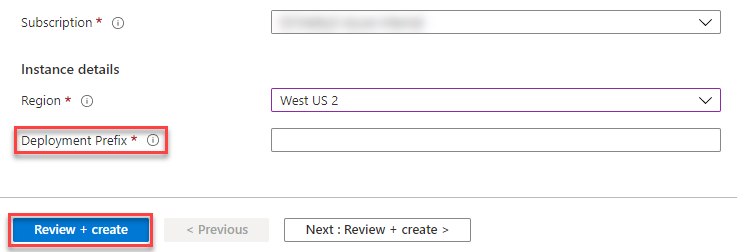
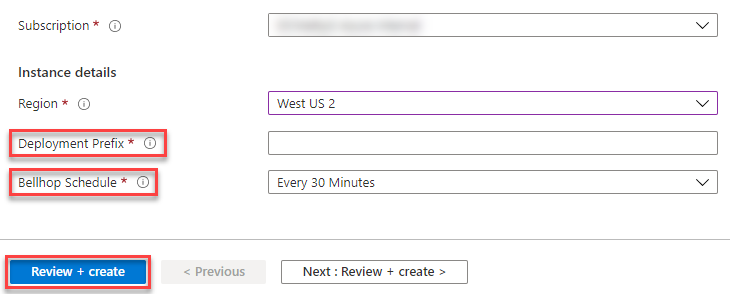
Added documentation describing the adjustable engine interval feature

diff --git a/docs/engine/README.md b/docs/engine/README.md
@@ -24,3 +24,14 @@ If the Engine finds resources that have the tag set to `True`, it then evaluates
     }
 }
 ```
+
+## Adjusting the Bellhop Engine Interval
+
+The interval at which the Bellhop engine runs is set by the Application Setting 'ENGINE_TIMER_EXPRESSION'
+
+![Bellhop Interval Setting](../images/timer_interval_setting.png)
+
+- The Application Settings for the Function can be found here
+    - &lt;deployment prefix&gt;-rg 🠆 &lt;deployment prefix&gt;-function-engine 🠆 Configuration 🠆 'ENGINE_TIMER_EXPRESSION'
+- This value should be a valid NCRONTAB expression.
+- More details on NCRONTAB expressions can be found [here](https://docs.microsoft.com/en-us/azure/azure-functions/functions-bindings-timer?tabs=csharp#ncrontab-expressions)

diff --git a/docs/README.md b/docs/README.md
@@ -36,7 +36,7 @@ The list of scalers currently supported by Bellhop:
 
 [![Deploy To Azure](https://aka.ms/deploytoazurebutton)](https://portal.azure.com/#create/Microsoft.Template/uri/https%3A%2F%2Fraw.githubusercontent.com%2FAzure%2Fbellhop%2Fmain%2Ftemplates%2Fazuredeploy.json/createUIDefinitionUri/https%3A%2F%2Fraw.githubusercontent.com%2FAzure%2Fbellhop%2Fmain%2Ftemplates%2FcreateUiDefinition.json)
 
-2. Select a Subscription, a Region, provide a Deployment Prefix and click 'Review + Create'
+2. Provide the required values in the deployment template, then click 'Review + Create'
 
 ![Bellhop Deployment](./images/deployment.png)
 
